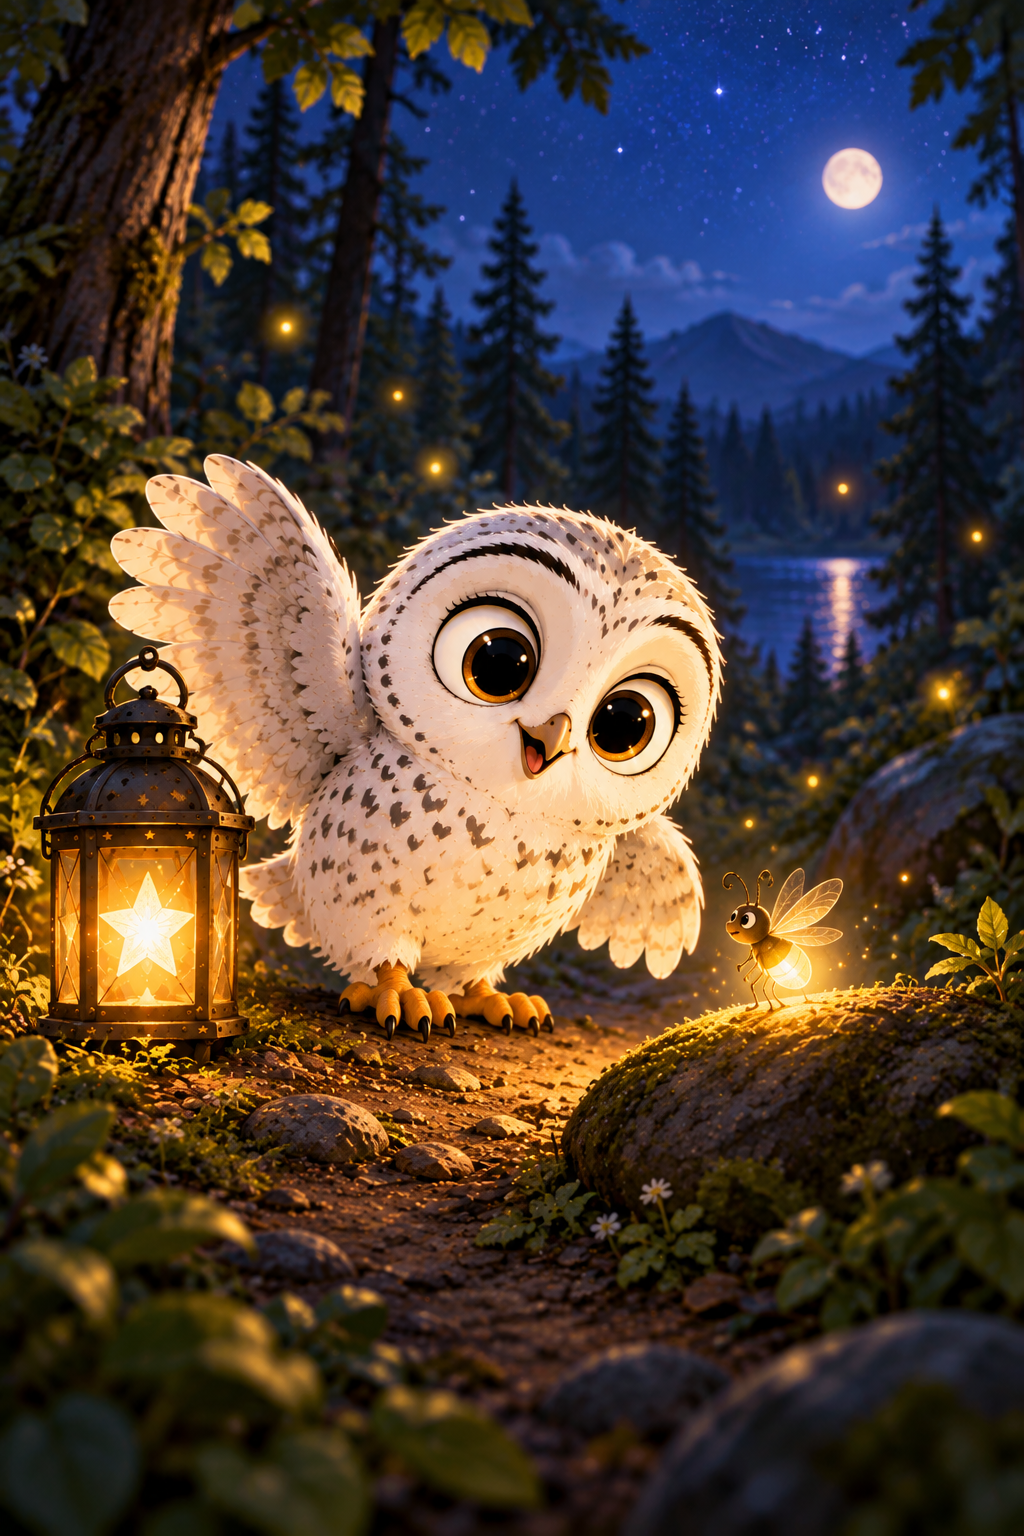
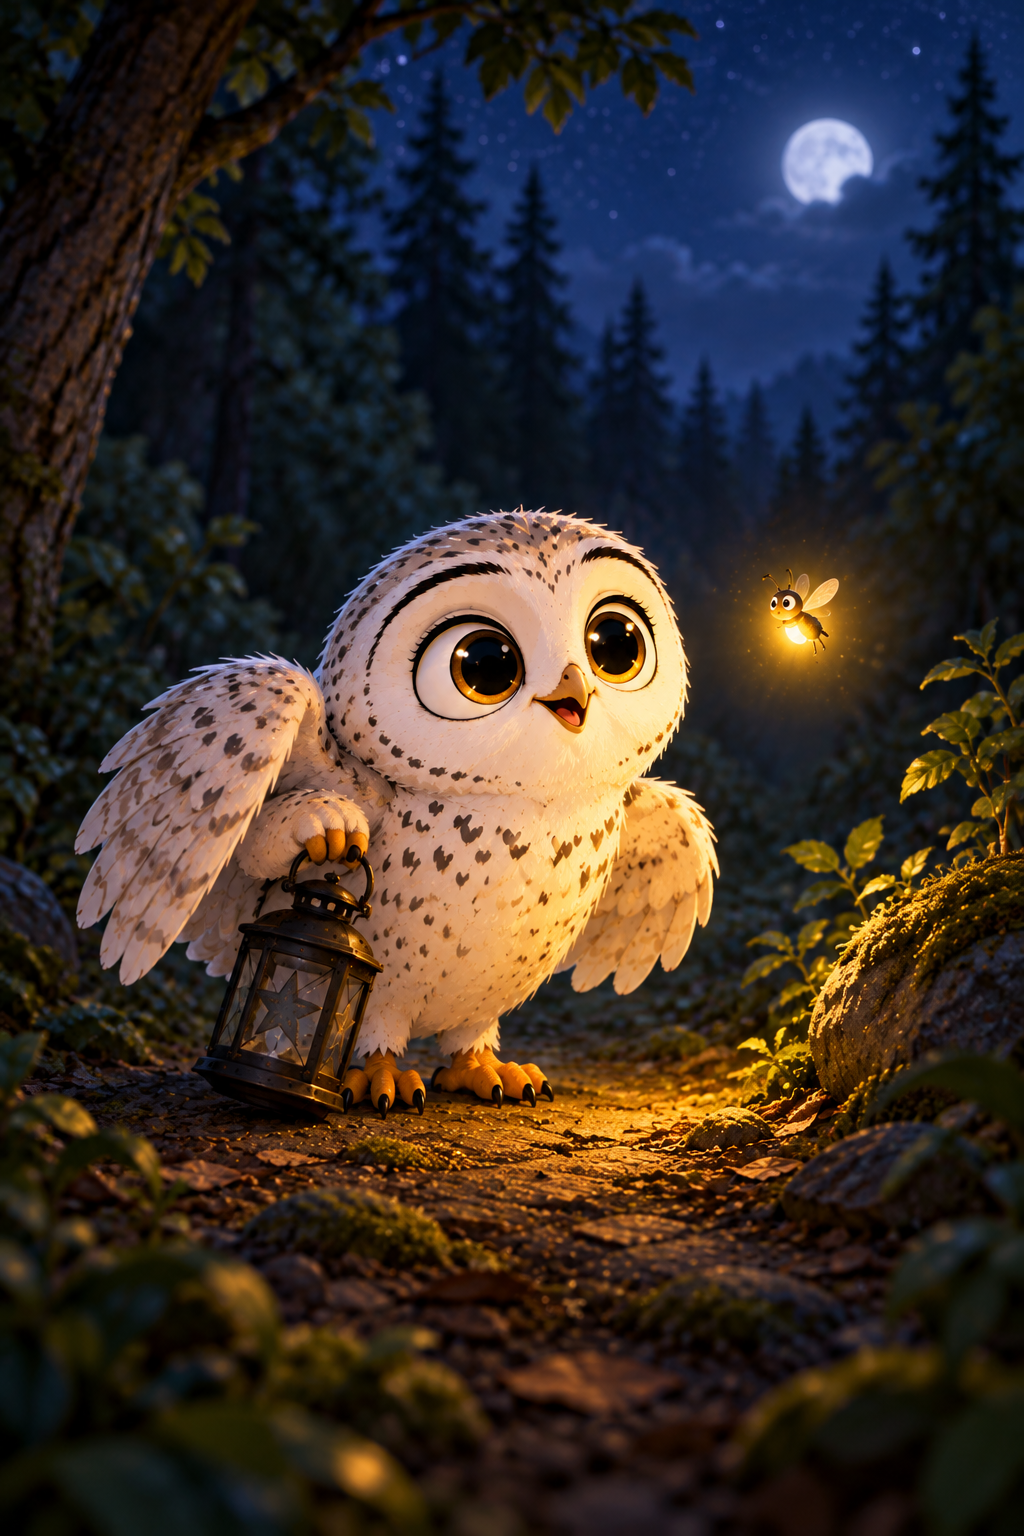
Lumi p7 fix: lantern now dark, firefly is the sole light — art matches the story's turn (CEO standard)

diff --git a/books/lumi-lights-way/book.ts b/books/lumi-lights-way/book.ts
@@ -161,13 +161,13 @@ const rawBook: Book = {
       art: '',
       manifest: {
         charactersPresent: ['lumi'],
-        location: 'the dark forest path',
-        timeOfDay: 'night',
-        action: 'The tiny firefly brightens its own small warm glow beside Lumi, lighting a little circle in the dark; Lumi looks at it with surprise and dawning hope',
-        emotionalBeat: 'the turn: the little one has a light of its own',
-        requiredVisualFacts: ['the tiny firefly glowing brightly with its own small light', 'a little circle of warm light in the dark', 'Lumis surprised, hopeful face lit by it'],
-        forbiddenVisualFacts: [...forbiddenAlways],
-        composition: 'the firefly the small warm light source, Lumi leaning toward it hopefully, soft dark around',
+        location: 'the dark forest path, Lumis star lantern completely dark and unlit',
+        timeOfDay: 'night, only the fireflys tiny glow for light',
+        action: 'In the dark, the tiny firefly is the ONLY source of light, glowing warmly beside Lumi and lighting a small circle around them; Lumi holds her dark, unlit star lantern and gazes at the fireflys glow with surprise and dawning hope',
+        emotionalBeat: 'the turn: Lumis light is out, and the little one has a light of its own',
+        requiredVisualFacts: ['the tiny firefly is the single source of light, glowing warmly in the dark', 'Lumis star lantern held but DARK and unlit (no glow from the lantern at all)', 'a small circle of warm firefly-light in the surrounding dark', 'Lumis surprised, hopeful face lit only by the firefly'],
+        forbiddenVisualFacts: [...forbiddenAlways, 'the star lantern glowing or lit', 'any light source other than the firefly (besides soft moonlight)'],
+        composition: 'the firefly is the one small warm light; Lumis unlit dark lantern clearly visible; Lumi leaning toward the firefly hopefully, soft moonlit dark around',
       },
     },
     {
